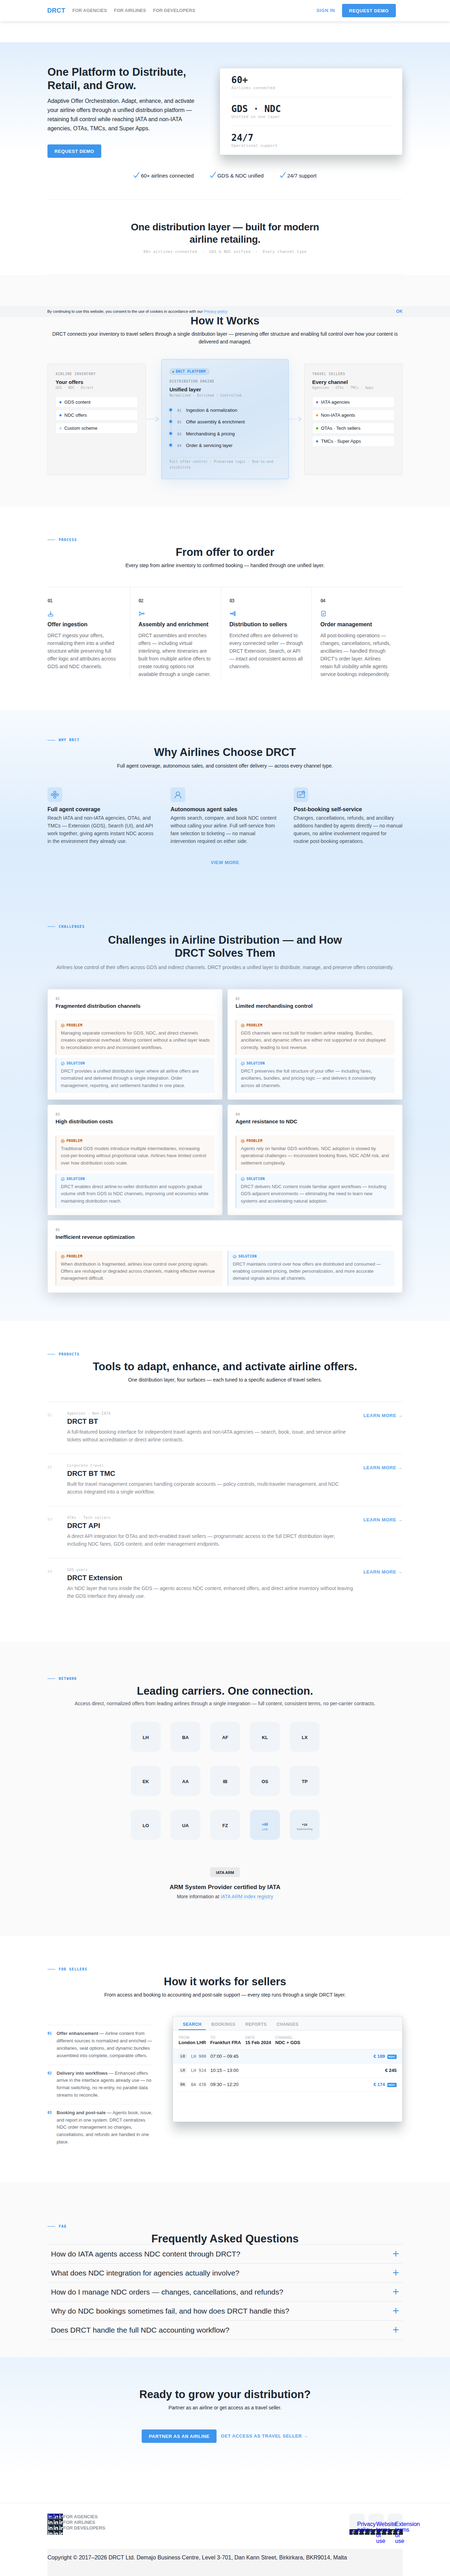
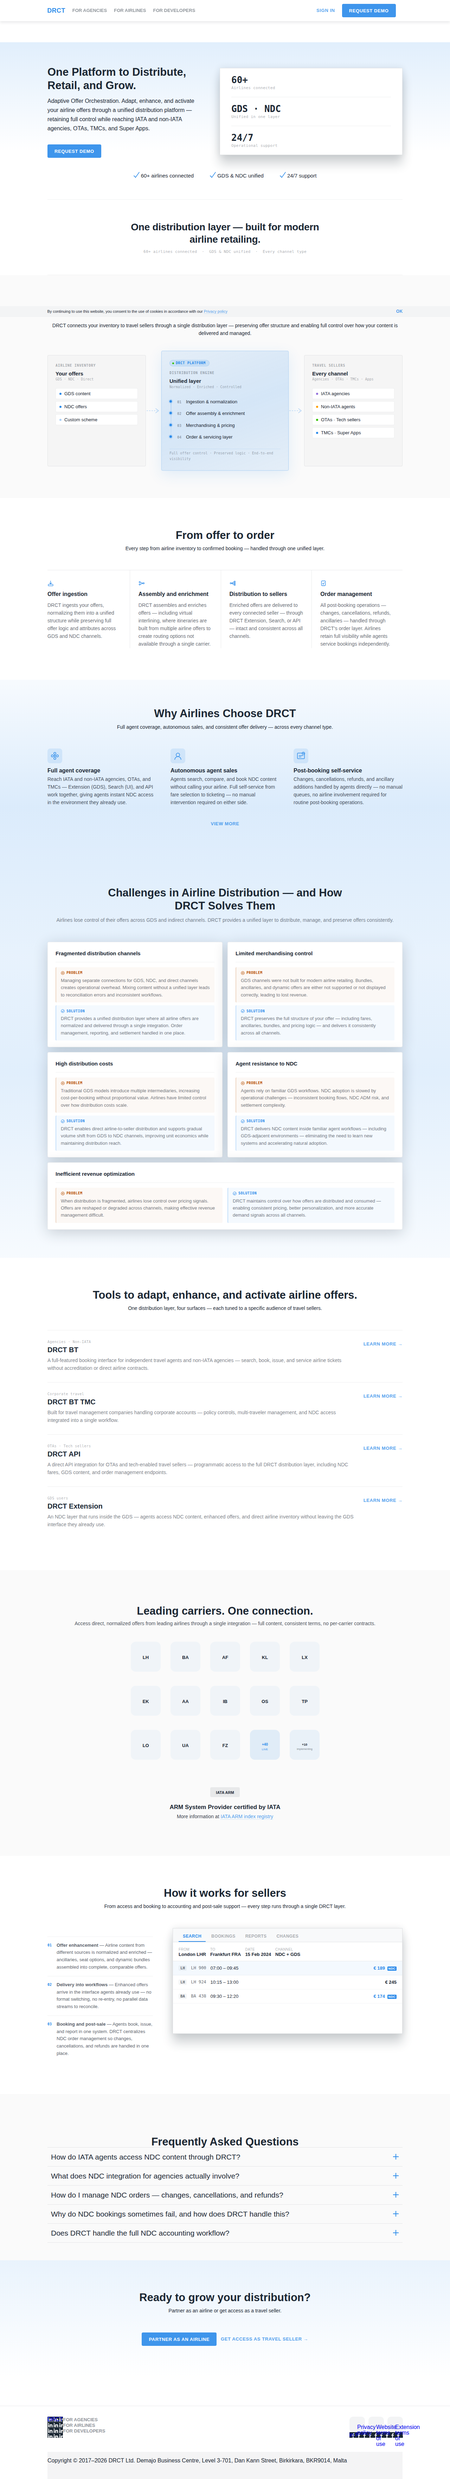
Remove decorative eyebrow labels and step numbering for cleaner hierarchy
Remove all .sect-eyebrow section labels, 01-04 step numbers from steps section,
01-04 numbers from product list entries, and 01-05 numbers from problem cards.
Clean up corresponding CSS. Keep functional labels inside flow diagram.

diff --git a/blocks/index.html b/blocks/index.html
@@ -221,14 +221,6 @@
       border-left: 1px solid rgba(27,39,51,0.1);
     }
     .step-col:first-child { border-left: none; padding-left: 0; }
-    .step-num {
-      font-family: var(--font-mono);
-      font-size: 11px;
-      font-weight: 600;
-      color: var(--blue);
-      margin-bottom: 10px;
-      letter-spacing: 0.3px;
-    }
     .step-icon {
       margin-bottom: 12px;
       line-height: 1;
@@ -275,13 +267,6 @@
       padding-bottom: 14px;
       margin-bottom: 14px;
       border-bottom: 1px solid rgba(27,39,51,0.07);
-    }
-    .prob-n {
-      font-family: var(--font-mono);
-      font-size: 10px;
-      color: var(--dark-40);
-      font-weight: 600;
-      margin-bottom: 5px;
     }
     .prob-card h3 {
       font-size: 15px;
@@ -389,27 +374,6 @@
 
     /* ── Structural enhancements (forhers-inspired composition) ── */
 
-    /* Section eyebrow opener */
-    .sect-eyebrow {
-      display: flex;
-      align-items: center;
-      gap: 10px;
-      font-family: var(--font-mono);
-      font-size: 10px;
-      font-weight: 600;
-      letter-spacing: 1.4px;
-      text-transform: uppercase;
-      color: var(--blue);
-      margin-bottom: 14px;
-    }
-    .sect-eyebrow::before {
-      content: '';
-      width: 22px;
-      height: 1px;
-      background: currentColor;
-      flex-shrink: 0;
-    }
-
     /* Full-width bridge statement between major sections */
     .bridge {
       padding: 60px 0;
@@ -437,35 +401,17 @@
       .bridge__text { font-size: 21px; }
     }
 
-    /* Large display step numbers */
-    .step-num {
-      font-family: var(--font-mono);
-      font-size: 48px;
-      font-weight: 900;
-      color: rgba(27,39,51,0.07);
-      margin-bottom: 16px;
-      letter-spacing: -2px;
-      line-height: 1;
-    }
-
     /* Numbered product list */
     .product-list {
       margin-top: 44px;
     }
     .product-entry {
       display: grid;
-      grid-template-columns: 28px 1fr auto;
+      grid-template-columns: 1fr auto;
       column-gap: 28px;
       align-items: start;
       padding: 28px 0;
       border-top: 1px solid rgba(27,39,51,0.08);
-    }
-    .product-entry__n {
-      font-family: var(--font-mono);
-      font-size: 11px;
-      font-weight: 700;
-      color: rgba(27,39,51,0.18);
-      padding-top: 4px;
     }
     .product-entry__tag {
       font-family: var(--font-mono);
@@ -640,7 +586,6 @@
 <div class="landing-new loaded" style="background: rgba(27,39,51,0.025);">
   <div class="landing-new__body">
     <section class="how">
-      <div class="sect-eyebrow">Platform</div>
       <h2>How It Works</h2>
       <p>DRCT connects your inventory to travel sellers through a single distribution layer — preserving offer structure and enabling full control over how your content is delivered and managed.</p>
 
@@ -726,14 +671,12 @@
 <div class="landing-new loaded">
   <div class="landing-new__body">
     <section class="how">
-      <div class="sect-eyebrow">Process</div>
       <h2>From offer to order</h2>
       <p>Every step from airline inventory to confirmed booking — handled through one unified layer.</p>
 
       <div class="step-row">
 
         <div class="step-col">
-          <p class="step-num">01</p>
           <div class="step-icon">
             <!-- Inbox tray: ingest / receive -->
             <svg width="18" height="18" viewBox="0 0 16 16" fill="none" xmlns="http://www.w3.org/2000/svg">
@@ -746,7 +689,6 @@
         </div>
 
         <div class="step-col">
-          <p class="step-num">02</p>
           <div class="step-icon">
             <!-- Two inputs merge into one: assemble -->
             <svg width="18" height="18" viewBox="0 0 16 16" fill="none" xmlns="http://www.w3.org/2000/svg">
@@ -761,7 +703,6 @@
         </div>
 
         <div class="step-col">
-          <p class="step-num">03</p>
           <div class="step-icon">
             <!-- One source fans out to multiple: distribute -->
             <svg width="18" height="18" viewBox="0 0 16 16" fill="none" xmlns="http://www.w3.org/2000/svg">
@@ -777,7 +718,6 @@
         </div>
 
         <div class="step-col">
-          <p class="step-num">04</p>
           <div class="step-icon">
             <!-- Document with checkmark: order confirmed -->
             <svg width="18" height="18" viewBox="0 0 16 16" fill="none" xmlns="http://www.w3.org/2000/svg">
@@ -807,7 +747,6 @@
 ================================================================ -->
 <section class="benefits" style="background: transparent;">
   <div class="benefits__container">
-    <div class="sect-eyebrow">Why DRCT</div>
     <h2>Why Airlines Choose DRCT</h2>
     <p>Full agent coverage, autonomous sales, and consistent offer delivery — across every channel type.</p>
     <div class="benefits__body">
@@ -862,7 +801,6 @@
 <div class="landing-new loaded" style="background: transparent;">
   <div class="landing-new__body">
     <section class="how" style="padding-bottom: 80px;">
-      <div class="sect-eyebrow">Challenges</div>
       <h2 style="max-width: 680px; margin: 0 auto 0; line-height: 1.2;">Challenges in Airline Distribution — and How DRCT Solves Them</h2>
       <p style="color: rgba(27,39,51,0.6);">Airlines lose control of their offers across GDS and indirect channels. DRCT provides a unified layer to distribute, manage, and preserve offers consistently.</p>
 
@@ -870,7 +808,6 @@
 
         <div class="prob-card">
           <div class="prob-card__head">
-            <p class="prob-n">01</p>
             <h3>Fragmented distribution channels</h3>
           </div>
           <div class="prob-block prob-block--issue">
@@ -891,7 +828,6 @@
 
         <div class="prob-card">
           <div class="prob-card__head">
-            <p class="prob-n">02</p>
             <h3>Limited merchandising control</h3>
           </div>
           <div class="prob-block prob-block--issue">
@@ -912,7 +848,6 @@
 
         <div class="prob-card">
           <div class="prob-card__head">
-            <p class="prob-n">03</p>
             <h3>High distribution costs</h3>
           </div>
           <div class="prob-block prob-block--issue">
@@ -933,7 +868,6 @@
 
         <div class="prob-card">
           <div class="prob-card__head">
-            <p class="prob-n">04</p>
             <h3>Agent resistance to NDC</h3>
           </div>
           <div class="prob-block prob-block--issue">
@@ -954,7 +888,6 @@
 
         <div class="prob-card prob-card--full">
           <div class="prob-card__head">
-            <p class="prob-n">05</p>
             <h3>Inefficient revenue optimization</h3>
           </div>
           <div class="prob-inner">
@@ -989,14 +922,12 @@
 <div class="landing-new loaded">
   <div class="landing-new__body">
     <section class="how">
-      <div class="sect-eyebrow">Products</div>
       <h2>Tools to adapt, enhance, and activate airline offers.</h2>
       <p>One distribution layer, four surfaces — each tuned to a specific audience of travel sellers.</p>
 
       <div class="product-list">
 
         <div class="product-entry">
-          <span class="product-entry__n">01</span>
           <div>
             <p class="product-entry__tag">Agencies · Non-IATA</p>
             <h3 class="product-entry__title">DRCT BT</h3>
@@ -1006,7 +937,6 @@
         </div>
 
         <div class="product-entry">
-          <span class="product-entry__n">02</span>
           <div>
             <p class="product-entry__tag">Corporate travel</p>
             <h3 class="product-entry__title">DRCT BT TMC</h3>
@@ -1016,7 +946,6 @@
         </div>
 
         <div class="product-entry">
-          <span class="product-entry__n">03</span>
           <div>
             <p class="product-entry__tag">OTAs · Tech sellers</p>
             <h3 class="product-entry__title">DRCT API</h3>
@@ -1026,7 +955,6 @@
         </div>
 
         <div class="product-entry">
-          <span class="product-entry__n">04</span>
           <div>
             <p class="product-entry__tag">GDS users</p>
             <h3 class="product-entry__title">DRCT Extension</h3>
@@ -1047,7 +975,6 @@
 <div class="landing-new loaded" style="background: rgba(27,39,51,0.025);">
   <div class="landing-new__body">
     <section class="certified">
-      <div class="sect-eyebrow">Network</div>
       <h2>Leading carriers. One connection.</h2>
       <p class="certified__description">Access direct, normalized offers from leading airlines through a single integration — full content, consistent terms, no per-carrier contracts.</p>
       <div class="certified__airlines">
@@ -1134,7 +1061,6 @@
 <div class="landing-new loaded">
   <div class="landing-new__body">
     <section class="how">
-      <div class="sect-eyebrow">For Sellers</div>
       <h2>How it works for sellers</h2>
       <p>From access and booking to accounting and post-sale support — every step runs through a single DRCT layer.</p>
 
@@ -1199,7 +1125,6 @@
 <div class="landing-new loaded" style="background: rgba(27,39,51,0.025);">
   <div class="landing-new__body">
     <section class="questions">
-      <div class="sect-eyebrow">FAQ</div>
       <h2>Frequently Asked Questions</h2>
       <div class="questions__body">
         <ul id="faqList">
